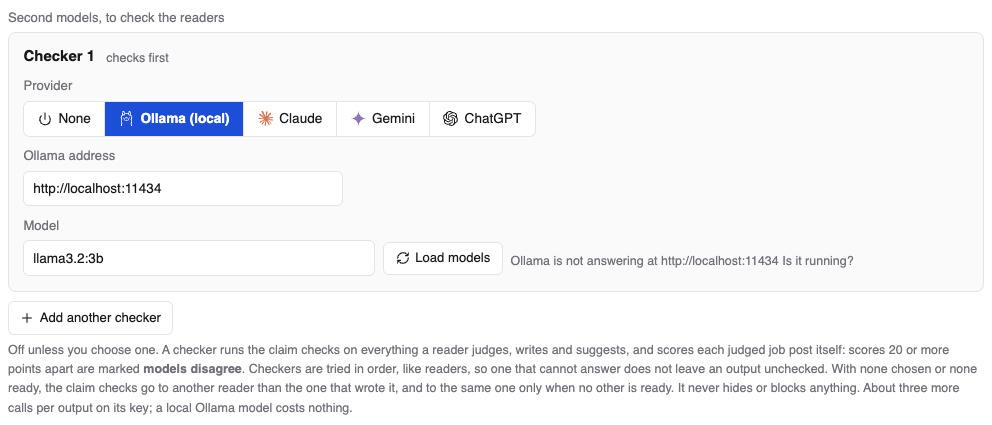
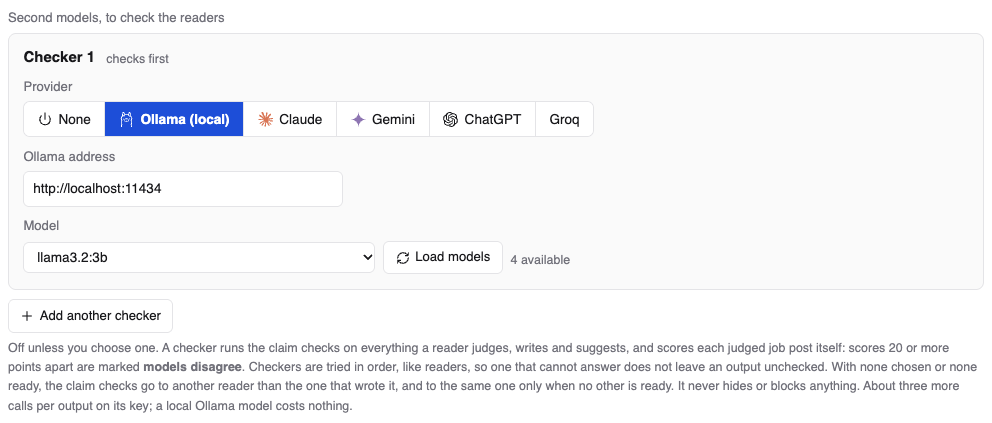
feat: Groq as an AI provider (see docs/CHANGELOG.md)

diff --git a/jobdork/data/dashboard.html b/jobdork/data/dashboard.html
@@ -669,7 +669,7 @@ main > #view-setup.welcome{max-width:46rem;margin-top:3.5rem}
   <button class="item" data-view="settings" data-label="Search" data-info="What you are looking for: job titles to include and exclude, where you are and how far you will travel, work arrangement, salary floor and dealbreakers. Saved to your config and applied by every scan and re-screen." aria-description="What you are looking for: job titles to include and exclude, where you are and how far you will travel, work arrangement, salary floor and dealbreakers. Saved to your config and applied by every scan and re-screen."><svg viewBox="0 0 24 24" aria-hidden="true"><path fill-rule="evenodd" d="M10.5 3a7.5 7.5 0 0 1 5.96 12.05l4.25 4.24a1 1 0 0 1-1.42 1.42l-4.24-4.25A7.5 7.5 0 1 1 10.5 3zm0 2.5a5 5 0 1 0 0 10 5 5 0 0 0 0-10z"/></svg><span class="label">Search</span><span class="info" aria-hidden="true"><svg viewBox="0 0 24 24"><path fill-rule="evenodd" d="M12 2a10 10 0 1 1 0 20 10 10 0 0 1 0-20zm-1.1 8.5v7h2.2v-7h-2.2zm1.1-4a1.35 1.35 0 1 0 0 2.7 1.35 1.35 0 0 0 0-2.7z"/></svg></span></button>
   <button class="item" data-view="resume" data-label="Resume" data-info="Upload your resume as PDF, Word, Markdown or text. Its skills drive the fit score, and the AI reader compares adverts against it. Have the AI review it here too. It stays on this machine." aria-description="Upload your resume as PDF, Word, Markdown or text. Its skills drive the fit score, and the AI reader compares adverts against it. Have the AI review it here too. It stays on this machine."><svg viewBox="0 0 24 24" aria-hidden="true"><path fill-rule="evenodd" d="M6 2h8l6 6v12a2 2 0 0 1-2 2H6a2 2 0 0 1-2-2V4a2 2 0 0 1 2-2zm7 1.8V8a1 1 0 0 0 1 1h4.2L13 3.8zM8 12.2h8v1.6H8v-1.6zm0 3.6h8v1.6H8v-1.6z"/></svg><span class="label">Resume</span><span class="info" aria-hidden="true"><svg viewBox="0 0 24 24"><path fill-rule="evenodd" d="M12 2a10 10 0 1 1 0 20 10 10 0 0 1 0-20zm-1.1 8.5v7h2.2v-7h-2.2zm1.1-4a1.35 1.35 0 1 0 0 2.7 1.35 1.35 0 0 0 0-2.7z"/></svg></span></button>
   <button class="item" data-view="sources" data-label="Sources" data-info="Where job posts come from: boards searched by keyword (Adzuna, Workable, USAJOBS) and employers' own boards (Greenhouse, Ashby, Lever and others). Shows which are active and why any are not, holds the keys for Adzuna and USAJOBS, adds a job post from a link, and adds or removes employer boards." aria-description="Where job posts come from: boards searched by keyword (Adzuna, Workable, USAJOBS) and employers' own boards (Greenhouse, Ashby, Lever and others). Shows which are active and why any are not, holds the keys for Adzuna and USAJOBS, adds a job post from a link, and adds or removes employer boards."><svg viewBox="0 0 24 24" aria-hidden="true"><ellipse cx="12" cy="5" rx="8" ry="3"/><path d="M4 8.2C5.6 9.3 8.6 10 12 10s6.4-.7 8-1.8V12c0 1.66-3.6 3-8 3s-8-1.34-8-3V8.2zm0 7c1.6 1.1 4.6 1.8 8 1.8s6.4-.7 8-1.8V19c0 1.66-3.6 3-8 3s-8-1.34-8-3v-3.8z"/></svg><span class="label">Sources</span><span class="info" aria-hidden="true"><svg viewBox="0 0 24 24"><path fill-rule="evenodd" d="M12 2a10 10 0 1 1 0 20 10 10 0 0 1 0-20zm-1.1 8.5v7h2.2v-7h-2.2zm1.1-4a1.35 1.35 0 1 0 0 2.7 1.35 1.35 0 0 0 0-2.7z"/></svg></span></button>
-  <button class="item" data-view="ai" data-label="AI" data-info="Choose a model (local through Ollama, or Claude, Gemini or ChatGPT) to judge fit against your resume and read posting pages that do not say whether a job is open. API keys are held in memory only." aria-description="Choose a model (local through Ollama, or Claude, Gemini or ChatGPT) to judge fit against your resume and read posting pages that do not say whether a job is open. API keys are held in memory only."><svg viewBox="0 0 24 24" aria-hidden="true"><path d="M11 2l1.9 5.6 5.6 1.9-5.6 1.9L11 17l-1.9-5.6-5.6-1.9 5.6-1.9L11 2zm7.5 11l.95 2.55 2.55.95-2.55.95L18.5 20l-.95-2.55L15 16.5l2.55-.95L18.5 13z"/></svg><span class="label">AI</span><span class="info" aria-hidden="true"><svg viewBox="0 0 24 24"><path fill-rule="evenodd" d="M12 2a10 10 0 1 1 0 20 10 10 0 0 1 0-20zm-1.1 8.5v7h2.2v-7h-2.2zm1.1-4a1.35 1.35 0 1 0 0 2.7 1.35 1.35 0 0 0 0-2.7z"/></svg></span></button>
+  <button class="item" data-view="ai" data-label="AI" data-info="Choose a model (local through Ollama, or Claude, Gemini, ChatGPT or Groq) to judge fit against your resume and read posting pages that do not say whether a job is open. API keys are held in memory only." aria-description="Choose a model (local through Ollama, or Claude, Gemini, ChatGPT or Groq) to judge fit against your resume and read posting pages that do not say whether a job is open. API keys are held in memory only."><svg viewBox="0 0 24 24" aria-hidden="true"><path d="M11 2l1.9 5.6 5.6 1.9-5.6 1.9L11 17l-1.9-5.6-5.6-1.9 5.6-1.9L11 2zm7.5 11l.95 2.55 2.55.95-2.55.95L18.5 20l-.95-2.55L15 16.5l2.55-.95L18.5 13z"/></svg><span class="label">AI</span><span class="info" aria-hidden="true"><svg viewBox="0 0 24 24"><path fill-rule="evenodd" d="M12 2a10 10 0 1 1 0 20 10 10 0 0 1 0-20zm-1.1 8.5v7h2.2v-7h-2.2zm1.1-4a1.35 1.35 0 1 0 0 2.7 1.35 1.35 0 0 0 0-2.7z"/></svg></span></button>
   <button class="item" data-view="tools" data-label="Feedback" data-info="Send a problem, an idea or a question to the people who make jobdork." aria-description="Send a problem, an idea or a question to the people who make jobdork."><svg viewBox="0 0 24 24" aria-hidden="true"><circle cx="6" cy="7" r="3"/><rect x="11" y="5.75" width="10" height="2.5" rx="1.25"/><circle cx="18" cy="17" r="3"/><rect x="3" y="15.75" width="10" height="2.5" rx="1.25"/></svg><span class="label">Feedback</span><span class="info" aria-hidden="true"><svg viewBox="0 0 24 24"><path fill-rule="evenodd" d="M12 2a10 10 0 1 1 0 20 10 10 0 0 1 0-20zm-1.1 8.5v7h2.2v-7h-2.2zm1.1-4a1.35 1.35 0 1 0 0 2.7 1.35 1.35 0 0 0 0-2.7z"/></svg></span></button>
   <div class="foot">
     <div class="status" id="net" role="status" hidden><span class="dot"></span><span id="net-text"></span></div>
@@ -2750,7 +2750,7 @@ function drawSetup(st) {
       not running, a key missing, a rate limit. It can be the same provider with another
       model.</p>
       <p class="hint">Ollama runs on your own computer and costs nothing. Claude,
-      Gemini and ChatGPT spend tokens on your key. Once the test passes, every
+      Gemini, ChatGPT and Groq spend tokens on your key. Once the test passes, every
       scan has the model read the ${SETUP_JUDGE_TOP} best new job posts against your
       resume (change it on the AI page). A key typed here is held in
       memory only and forgotten when jobdork stops; to keep one, put it in
@@ -2984,7 +2984,7 @@ async function setupShowResume(st) {
 // added one) still shows, by its title alone.
 const SETUP_ROUTE = {
   resume: ['Upload a PDF or Word file. Every job post is scored against it.', 'Required'],
-  ai: ['Connect Ollama on this computer for free, or a Claude, Gemini or ChatGPT key.', 'Optional'],
+  ai: ['Connect Ollama on this computer for free, or a Claude, Gemini, ChatGPT or Groq key.', 'Optional'],
   search: ['Job titles to look for and what to leave out. The AI can suggest them from your resume.', 'Required'],
   where: ['Your city, how far you would travel, and remote, hybrid or on-site.', 'Required'],
   pay: ['A salary floor, and free keys for job sources where they apply.', 'Optional'],

diff --git a/jobdork/ai/llm.py b/jobdork/ai/llm.py
@@ -1,8 +1,8 @@
 """
 jobdork.ai.llm
 ==============
-A language model as a second reader: local through Ollama, or Claude, Gemini
-or ChatGPT through their APIs.
+A language model as a second reader: local through Ollama, or Claude, Gemini,
+ChatGPT or Groq through their APIs.
 
 It is used for two things, both optional and both on top of the rule-based
 screen rather than instead of it:
@@ -24,7 +24,7 @@ cannot promise that no copy of a string survives in freed memory — the
 request library makes its own for the header — so this is "never persisted,
 dropped as soon as it is not needed", not a guarantee against someone who can
 read this process's memory. Keys in the environment (ANTHROPIC_API_KEY,
-GEMINI_API_KEY, OPENAI_API_KEY) are used by the command line, which has no
+GEMINI_API_KEY, OPENAI_API_KEY, GROQ_API_KEY) are used by the command line, which has no
 page to type into.
 
 **Adverts are hostile input**, as in generate.py: fenced, fence markers
@@ -54,12 +54,14 @@ PROVIDERS = {
     "anthropic": "Claude",
     "gemini": "Gemini",
     "openai": "ChatGPT",
+    "groq": "Groq",
 }
-KEYED = ("anthropic", "gemini", "openai")
+KEYED = ("anthropic", "gemini", "openai", "groq")
 ENV_KEYS = {
     "anthropic": ("ANTHROPIC_API_KEY",),
     "gemini": ("GEMINI_API_KEY", "GOOGLE_API_KEY"),
     "openai": ("OPENAI_API_KEY",),
+    "groq": ("GROQ_API_KEY",),
 }
 DEFAULT_OLLAMA_URL = "http://localhost:11434"
 # Ollama on the same computer, as a container reaches it (Docker Desktop).
@@ -250,7 +252,7 @@ class Settings:
 # ── privacy ───────────────────────────────────────────────────────────────────
 # A resume carries an email address, a phone number and profile links, and none
 # of them helps a model judge fit or write a letter. They are removed from
-# anything sent to a hosted model (Claude, Gemini, ChatGPT). A local Ollama
+# anything sent to a hosted model (Claude, Gemini, ChatGPT, Groq). A local Ollama
 # model sees the text as it is: nothing leaves the machine.
 _EMAIL = re.compile(r"[\w.+-]+@[\w-]+(?:\.[\w-]+)+")
 _PROFILE = re.compile(r"(?:https?://)?(?:www\.)?(?:linkedin\.com|github\.com|gitlab\.com)"
@@ -317,7 +319,7 @@ def _call_one(settings: Settings, system: str, user: str, schema: dict,
     if settings.provider in KEYED:
         user = redact(user)
     call = {"ollama": _ollama, "anthropic": _anthropic,
-            "gemini": _gemini, "openai": _openai}[settings.provider]
+            "gemini": _gemini, "openai": _openai, "groq": _groq}[settings.provider]
     from ..core import telemetry
 
     started = time.time()
@@ -484,6 +486,41 @@ def _gemini(s: Settings, system: str, user: str, schema: dict,
     return "".join(p.get("text", "") for p in parts if isinstance(p, dict))
 
 
+GROQ_API = "https://api.groq.com/openai/v1"
+# Groq hosts many open models. These two follow a schema strictly; the rest
+# get JSON mode, which promises JSON but not its shape, with the shape in the
+# prompt as for Gemini, and the answer checked as every answer is. They also
+# reason before answering, and that counts against max_tokens, so they are
+# asked to reason briefly and not send the reasoning back.
+_GROQ_STRICT = ("openai/gpt-oss-20b", "openai/gpt-oss-120b")
+
+
+def _groq(s: Settings, system: str, user: str, schema: dict,
+          max_tokens: int) -> str:
+    key, _ = key_for("groq")
+    body = {
+        "model": s.model,
+        "messages": [{"role": "system", "content": system},
+                     {"role": "user", "content": user}],
+        "max_completion_tokens": max_tokens,
+        "temperature": 0,
+    }
+    if s.model in _GROQ_STRICT:
+        body["response_format"] = {"type": "json_schema", "json_schema": {
+            "name": "answer", "schema": schema, "strict": True}}
+        body["reasoning_effort"] = "low"
+        body["include_reasoning"] = False
+    else:
+        body["messages"][1]["content"] = user + (
+            "\n\nAnswer with one JSON object matching this schema:\n"
+            + json.dumps(schema))
+        body["response_format"] = {"type": "json_object"}
+    data = _post(GROQ_API + "/chat/completions", body,
+                 {"Authorization": f"Bearer {key}"}, CLOUD_TIMEOUT)
+    choices = data.get("choices") or [{}]
+    return ((choices[0] or {}).get("message") or {}).get("content", "")
+
+
 # Models whose refusals can be rescued server-side by another model.
 _FALLBACK_MODELS = ("claude-opus-5", "claude-fable-5-1")
 
@@ -560,6 +597,16 @@ def list_models(settings: Settings) -> list[str]:
         # Chat models only; embeddings, audio and image models cannot answer.
         return sorted((i for i in ids if re.match(r"(gpt-|o\d|chatgpt)", i)
                        and not re.search(r"audio|realtime|image|tts|transcribe|search", i)),
+                      reverse=True)
+    if p == "groq":
+        resp = _get(GROQ_API + "/models", {"Authorization": f"Bearer {key}"})
+        # Chat models only: not speech (Whisper), voices (Orpheus), the
+        # classifiers (Prompt Guard, Safeguard), or Compound, which searches
+        # the web and runs code with what it is sent.
+        return sorted((m.get("id", "") for m in resp.get("data", [])
+                       if m.get("id") and m.get("active", True)
+                       and not re.search(r"whisper|orpheus|tts|guard|compound",
+                                         m["id"], re.I)),
                       reverse=True)
     if p == "gemini":
         resp = _get("https://generativelanguage.googleapis.com/v1beta/models"

diff --git a/tests/test_ai.py b/tests/test_ai.py
@@ -212,6 +212,75 @@ def test_the_age_rule_covers_every_source_but_not_direct_evidence():
     assert Checker(listing.Finding("closed", "410", hard=True)).check(row, old).state == "closed"
 
 
+# ── Groq ──────────────────────────────────────────────────────────────────────
+
+def _groq_call(model: str, user: str = "judge me@example.com") -> tuple[dict, dict]:
+    """One Groq call with the network stubbed. (what was sent, the answer)."""
+    sent = {}
+
+    def fake(url, body, headers, timeout):
+        sent.update(url=url, body=body, auth=headers.get("Authorization", ""))
+        return {"choices": [{"message": {"content": '{"ok": true}'}}]}
+
+    saved = llm._post
+    llm._post = fake
+    llm.VAULT.put("groq", "gsk_test1234567890abcdef")
+    try:
+        answer = llm._call_one(llm.Settings(provider="groq", model=model), "sys", user,
+                               {"type": "object"}, 500, "", None)
+    finally:
+        llm._post = saved
+        llm.VAULT.forget("groq")
+    return sent, answer
+
+
+def test_groq_is_a_keyed_hosted_provider():
+    assert llm.PROVIDERS["groq"] == "Groq" and "groq" in llm.KEYED
+    assert llm.ENV_KEYS["groq"] == ("GROQ_API_KEY",)
+    assert llm.Settings(provider="groq", model="openai/gpt-oss-20b").problem().startswith("no Groq key")
+
+
+def test_groq_gpt_oss_gets_a_strict_schema_and_brief_reasoning():
+    sent, answer = _groq_call("openai/gpt-oss-120b")
+    assert answer == {"ok": True}
+    assert sent["url"] == "https://api.groq.com/openai/v1/chat/completions"
+    assert sent["auth"] == "Bearer gsk_test1234567890abcdef"
+    body = sent["body"]
+    assert body["response_format"]["type"] == "json_schema"
+    assert body["response_format"]["json_schema"]["strict"] is True
+    assert body["reasoning_effort"] == "low" and body["include_reasoning"] is False
+    assert "me@example.com" not in body["messages"][1]["content"], "contact details removed"
+
+
+def test_other_groq_models_get_json_mode_with_the_shape_in_the_prompt():
+    sent, _ = _groq_call("llama-3.3-70b-versatile")
+    body = sent["body"]
+    assert body["response_format"] == {"type": "json_object"}
+    assert "reasoning_effort" not in body, "only GPT-OSS takes it"
+    assert "matching this schema" in body["messages"][1]["content"]
+
+
+def test_groq_lists_chat_models_only():
+    saved = llm._get
+    # lambda: stands in for Groq's /models answer; no request is made.
+    llm._get = lambda url, headers: {"data": [
+        {"id": "llama-3.3-70b-versatile", "active": True},
+        {"id": "openai/gpt-oss-20b", "active": True},
+        {"id": "whisper-large-v3", "active": True},
+        {"id": "canopylabs/orpheus-v1-english", "active": True},
+        {"id": "meta-llama/llama-prompt-guard-2-86m", "active": True},
+        {"id": "openai/gpt-oss-safeguard-20b", "active": True},
+        {"id": "groq/compound", "active": True},
+        {"id": "retired-model", "active": False}]}
+    llm.VAULT.put("groq", "gsk_test1234567890abcdef")
+    try:
+        models = llm.list_models(llm.Settings(provider="groq"))
+    finally:
+        llm._get = saved
+        llm.VAULT.forget("groq")
+    assert models == ["openai/gpt-oss-20b", "llama-3.3-70b-versatile"]
+
+
 if __name__ == "__main__":
     tests = [(n, f) for n, f in sorted(globals().items())
              if n.startswith("test_") and callable(f)]

diff --git a/jobdork/core/feedback.py b/jobdork/core/feedback.py
@@ -69,7 +69,7 @@ def relay_url() -> str:
 
 _SECRETS = [
     # Provider keys by their prefixes, then anything long and key-like.
-    re.compile(r"\b(sk-ant-|sk-|re_|ghp_|gho_|github_pat_|AIza)[A-Za-z0-9_\-]{12,}"),
+    re.compile(r"\b(sk-ant-|sk-|gsk_|re_|ghp_|gho_|github_pat_|AIza)[A-Za-z0-9_\-]{12,}"),
     re.compile(r"\b(?=[A-Za-z0-9_\-]*\d)(?=[A-Za-z0-9_\-]*[A-Za-z])[A-Za-z0-9_\-]{32,}\b"),
     # The dashboard's own token in an address, and any key=value secret.
     re.compile(r"(?i)\b((?:t|\w*(?:token|key|secret|password))=)[^\s&\"']+"),

diff --git a/jobdork/core/config.py b/jobdork/core/config.py
@@ -413,7 +413,7 @@ class Llm:
     error) the next one does (ai/llm.py). `provider` and `model` are always
     the first reader's, as they were before there could be more than one.
     """
-    provider: str = ""              # ollama | anthropic | gemini | openai
+    provider: str = ""              # ollama | anthropic | gemini | openai | groq
     model: str = ""
     readers: list[Reader] = field(default_factory=list)
     ollama_url: str = "http://localhost:11434"

diff --git a/jobdork/core/telemetry.py b/jobdork/core/telemetry.py
@@ -362,7 +362,7 @@ _KEY_PROBLEMS = (
      "job source",
      "docs/CONFIG.md, sections \"sources\" and \"Environment\""),
     (re.compile(r"key was refused|enter an? \w+ key first|no api key|"
-                r"(ANTHROPIC|GEMINI|GOOGLE|OPENAI)_API_KEY", re.I),
+                r"(ANTHROPIC|GEMINI|GOOGLE|OPENAI|GROQ)_API_KEY", re.I),
      "AI",
      "docs/CONFIG.md, section \"llm\", or the AI page"),
 )

diff --git a/docs/CONFIG.md b/docs/CONFIG.md
@@ -528,7 +528,7 @@ llm:
     - {provider: anthropic, model: claude-sonnet-5-5} # then this one
 ```
 
-**What a hosted model is sent.** Claude, Gemini and ChatGPT get every prompt
+**What a hosted model is sent.** Claude, Gemini, ChatGPT and Groq get every prompt
 with email addresses, phone numbers and LinkedIn, GitHub and GitLab profile
 links removed (`llm.redact`). Year ranges, figures and standards such as
 "NIST 800-53" are left alone. A local Ollama model gets the text as it is,
@@ -538,7 +538,7 @@ it off a resume you use with a hosted model if that matters to you.
 | Key | Type | Default | Meaning |
 |---|---|---|---|
 | `llm.readers` | list | empty (off) | The AI readers, in the order they are asked, up to 6: each `{provider, model}`, and for Ollama an optional `ollama_url`. The first does the work; when it cannot answer (no key held, not reachable, rate limited, an error) the next one does. The same provider may be listed again with another model, but not the same model twice. Setup offers up to 3; the AI page the rest |
-| `llm.provider` | string | empty (off) | The first reader's provider: `ollama`, `anthropic` (Claude), `gemini` or `openai` (ChatGPT). A config with no `readers` has this one reader |
+| `llm.provider` | string | empty (off) | The first reader's provider: `ollama`, `anthropic` (Claude), `gemini`, `openai` (ChatGPT) or `groq`. A config with no `readers` has this one reader |
 | `llm.model` | string | empty | The first reader's model, e.g. `gemma4:26b`; the AI page lists what is available |
 | `llm.ollama_url` | URL | `http://localhost:11434` | Where Ollama answers. Must be `http(s)://host:port` |
 | `llm.judge_on_scan` | bool | `false` | After each scan, judge the best job posts not yet judged |
@@ -676,6 +676,7 @@ always wins over the YAML.
 | `ANTHROPIC_API_KEY` | Claude, from the terminal (the dashboard takes keys on its AI page) |
 | `GEMINI_API_KEY` or `GOOGLE_API_KEY` | Gemini, from the terminal |
 | `OPENAI_API_KEY` | ChatGPT, from the terminal |
+| `GROQ_API_KEY` | Groq, from the terminal |
 | `JOBDORK_CONFIG` | Config path override |
 | `JOBDORK_FEEDBACK_URL` | Where the Feedback page's Send goes. By default the maintainers' relay (see [relay/feedback](../relay/feedback/README.md)); an `https://` address replaces it, and `off` turns Send off, leaving "Open as a GitHub issue" and "Save as a file". No Resend or GitHub key is ever read by the app for this |
 | `JOBDORK_NOTIFY` | `off` turns notifications off for this run, whatever `notifications` says |

diff --git a/docs/CHANGELOG.md b/docs/CHANGELOG.md
@@ -6,6 +6,33 @@ it and into an entry when the work is done.
 
 ---
 
+## Added — 2026-10-24 — Groq as an AI provider
+
+- **Groq** is a fifth provider on the AI page, beside Ollama, Claude,
+  Gemini and ChatGPT: open models (Llama, GPT-OSS, Qwen and others) on
+  Groq's own servers, fast, paid by use with a free tier whose limits are
+  low (about 8,000 tokens a minute for GPT-OSS 20B), so a second reader
+  helps. Its key is held in memory like the others, or read from
+  `GROQ_API_KEY` in the terminal.
+- `openai/gpt-oss-20b` and `-120b` are asked for the answer's exact shape
+  (strict JSON schema), with brief reasoning and the reasoning left out of
+  the reply, since it counts against the answer's length. Every other
+  Groq model gets JSON mode, with the shape in the prompt as for Gemini.
+- **Load models** lists Groq's chat models only: not speech (Whisper),
+  voices (Orpheus), the classifiers (Prompt Guard, Safeguard), or
+  Compound, which searches the web and runs code with what it is sent.
+- As for every hosted model, contact details are removed from the resume
+  first. PRIVACY.md links Groq's policy and its data page: by default it
+  keeps no requests, apart from logs of up to 30 days for abuse and
+  reliability, which its Zero Data Retention setting turns off.
+- A key typed into feedback text is scrubbed by its `gsk_` prefix too, and
+  a run that fails for a missing `GROQ_API_KEY` points at the AI settings.
+- No logo on its button yet (the page carries the others' marks inline,
+  and Groq's could not be fetched while building this).
+- Guide, README, CONFIG, the run guides and privacy notes name Groq; the
+  AI page and setup pictures are retaken. tests/test_ai.py checks the
+  calls and the model list with the network stubbed.
+
 ## Fixed — 2026-10-24 — A job post could send the app into your network
 
 - **Addresses from job posts were fetched as given.** An apply link, a
@@ -67,6 +94,7 @@ it and into an entry when the work is done.
 - SECURITY.md says so, records CodeQL default setup (turned on 2026-10-23,
   not yet a required check) and the owner's passkeys on GitHub and Docker
   Hub, and drops those two from the owner's to-do list.
+
 
 ## Changed — 2026-10-24 — A release page opens with its downloads
 

diff --git a/PRIVACY.md b/PRIVACY.md
@@ -31,7 +31,7 @@ Support/jobdork` on macOS, `%LOCALAPPDATA%\jobdork` on Windows,
 `~/.local/share/jobdork` on Linux. **Settings → Where your files are**
 card shows the exact paths and opens them.
 
-**Keys for AI providers** (Claude, Gemini, ChatGPT) are held in memory only.
+**Keys for AI providers** (Claude, Gemini, ChatGPT, Groq) are held in memory only.
 They are never written to disk, and are forgotten when jobdork stops, or a
 minute after the last Dashboard window closes.
 
@@ -75,11 +75,16 @@ provider to be judged, reviewed or written from:
 
 - **Ollama** runs on a computer you choose, usually your own; nothing leaves
   your network unless you point it elsewhere.
-- **Anthropic (Claude), Google (Gemini) or OpenAI (ChatGPT)** receive the text
-  of each request, under their own terms and privacy policies:
+- **Anthropic (Claude), Google (Gemini), OpenAI (ChatGPT) or Groq** receive
+  the text of each request, under their own terms and privacy policies:
   [Anthropic](https://www.anthropic.com/legal/privacy),
   [Google](https://policies.google.com/privacy),
-  [OpenAI](https://openai.com/policies/privacy-policy).
+  [OpenAI](https://openai.com/policies/privacy-policy),
+  [Groq](https://groq.com/privacy-policy). Groq runs open models (Llama,
+  GPT-OSS, Qwen and others) on its own servers; by its
+  [data page](https://console.groq.com/docs/your-data) it keeps no requests
+  by default, apart from logs of up to 30 days for abuse and reliability,
+  which Zero Data Retention in its settings turns off.
 - **Drafts written with the `claude` command** (cover letters, CVs) go
   through your own Claude Code installation, under your account with
   Anthropic.

diff --git a/docs/run/source.md b/docs/run/source.md
@@ -10,7 +10,7 @@ Linux or an Intel Mac. For the terminal commands without a dashboard, see
 - **Python 3.10 or newer** (`python3 --version`).
 - **git**, or the repository's ZIP from GitHub.
 - Optional: [Ollama](https://ollama.com) for a free local AI model, or a key
-  for Claude, Gemini or ChatGPT. jobdork scans without any.
+  for Claude, Gemini, ChatGPT or Groq. jobdork scans without any.
 
 ## Install
 
@@ -30,7 +30,7 @@ On Windows the venv's programs are in `.venv\Scripts\` rather than
 | Extra | Adds | Needed for |
 |---|---|---|
 | `pdf` | `pypdf` | Reading a PDF resume (`.docx`, `.md` and `.txt` need nothing) |
-| `ai` | `anthropic` | Claude as an AI reader or checker. Ollama, Gemini and ChatGPT need nothing extra |
+| `ai` | `anthropic` | Claude as an AI reader or checker. Ollama, Gemini, ChatGPT and Groq need nothing extra |
 | `app` | `pywebview` (and macOS notifications) | The desktop window, `jobdork app` |
 | `package` | PyInstaller, Pillow | Building the installers ([desktop.md](desktop.md#building-the-installers-yourself)) |
 | `dev` | pytest, ruff | Running the tests ([Development](../../README.md#development)) |

diff --git a/README.md b/README.md
@@ -519,8 +519,8 @@ jobdork tailor <uid>          # your resume rewritten for one post, as a PDF
   (see [freshness](docs/CONFIG.md#freshness)) and given to the model in its
   own block, apart from the dates in your resume. New posts rank higher,
   stale ones lower and marked, and ghost listings past 90 days are dropped.
-- **Any of four providers:** Ollama running locally (free), Claude, Gemini or
-  ChatGPT. **Keys are held in memory only**: typed on the AI page, never
+- **Any of five providers:** Ollama running locally (free), Claude, Gemini,
+  ChatGPT or Groq (open models, fast, with a free tier). **Keys are held in memory only**: typed on the AI page, never
   written to the config, the database or a log, and wiped when the server
   stops or you click Forget. The terminal reads them from the environment.
 - **Judging** gives a score, a verdict and its reasons beside the rule-based

diff --git a/guide/docs/ai.md b/guide/docs/ai.md
@@ -14,7 +14,7 @@ a job post, and jobdork scans without one.
 | Provider | Costs | Your data |
 |---|---|---|
 | **Ollama (local)** | Free. Runs on your own computer; needs a recent computer (a Mac with Apple Silicon, or a PC with a graphics card) | Never leaves your computer |
-| **Claude**, **Gemini**, **ChatGPT** | Paid by use, on your own key from that company | Sent to that company, with your email, phone number and profile links removed first |
+| **Claude**, **Gemini**, **ChatGPT**, **Groq** | Paid by use, on your own key from that company (Groq also has a free tier, with low limits) | Sent to that company, with your email, phone number and profile links removed first |
 
 For Ollama: install it from [ollama.com](https://ollama.com), download a
 model (`ollama pull gemma4:26b` for good results with 32 GB of memory, a
